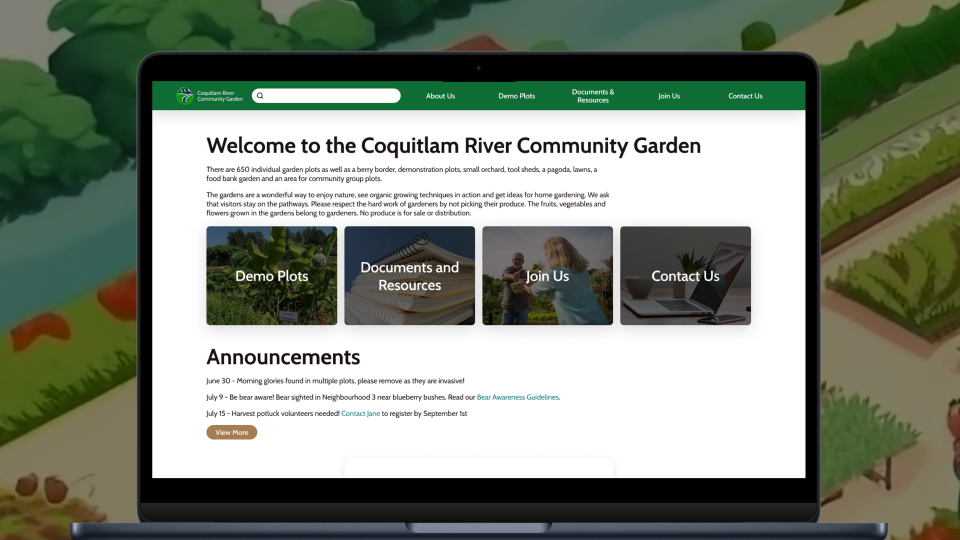
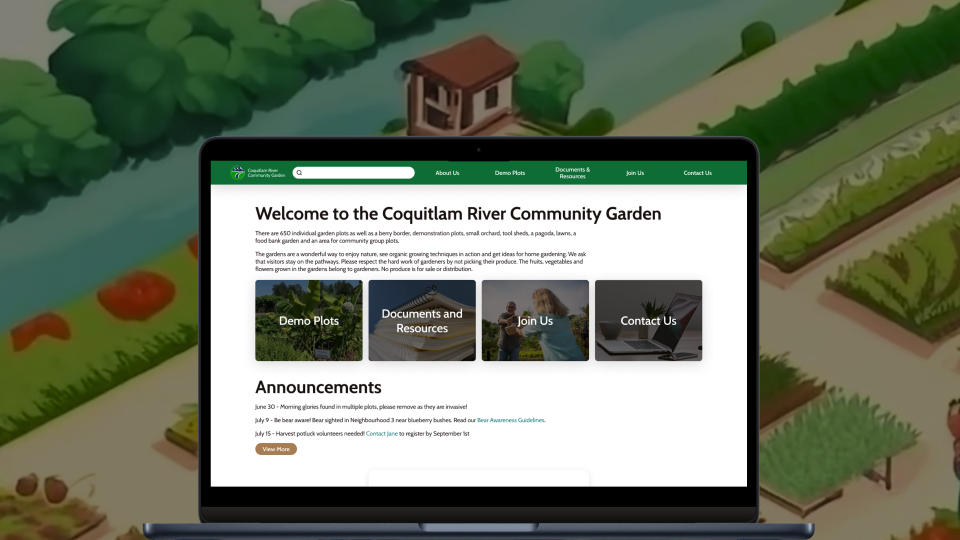
Updates

diff --git a/css/main.css b/css/main.css
@@ -272,6 +272,7 @@ body .project-contents .image-holder .caption {
   width: 100%;
   height: 18em;
   background-size: cover;
+  background-position: center;
   background-repeat: no-repeat;
 }
 .card .cardContent {
@@ -486,6 +487,7 @@ body #intro h1 {
 }
 body #intro h5 {
   padding-bottom: 1em;
+  width: 80%;
 }
 body .intro-first-line {
   padding-bottom: 0.375em;
